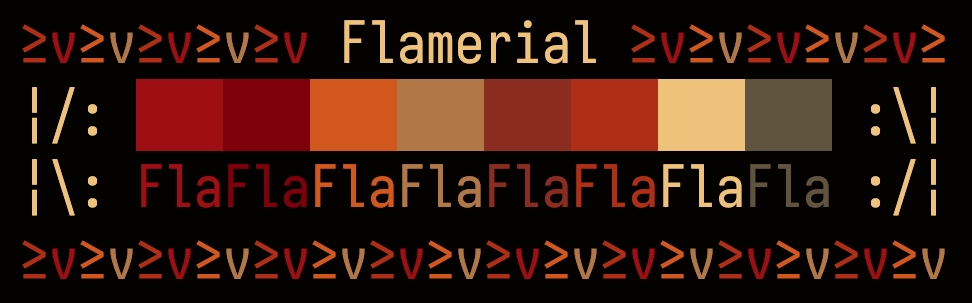
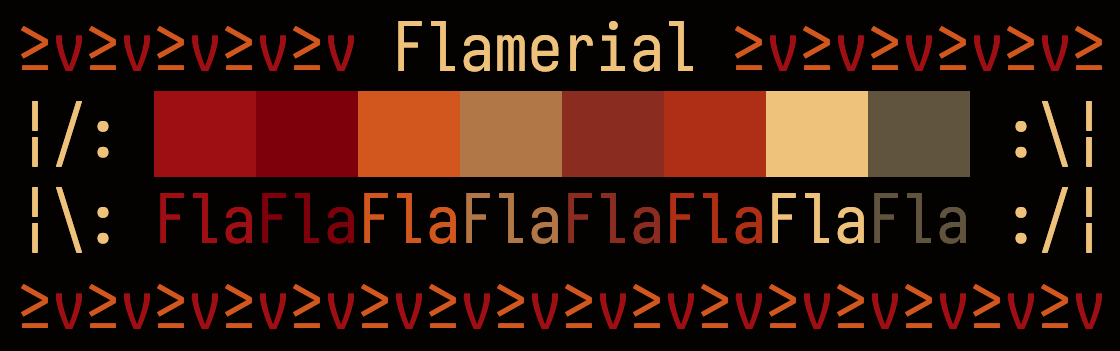
add preview script

diff --git a/scripts/preview.rb b/scripts/preview.rb
@@ -1,0 +1,80 @@
+def to_rgb(hex)
+  {
+    :r => hex >> 16 & 0xff,
+    :g => hex >> 8 & 0xff,
+    :b => hex & 0xff
+  }
+end
+
+def set_clr(clr, lyr)
+  clr = $clrs[clr]
+  print("\e[#{$lyrs[lyr]}8;2;#{clr[:r]};#{clr[:g]};#{clr[:b]}m")
+end
+
+def reset_clrs
+  print("\e[39;49m")
+end
+
+def write_blank
+  2.times {
+    42.times {
+      print(' ')
+    }
+    puts
+  }
+end
+
+def write_tribal_decor(len)
+  for col in 1..len
+    is_even = col % 2 == 0
+    set_clr(is_even ? :red : :yellow, :fg)
+    print(is_even ? 'v' : '≥')
+  end
+end
+
+def write_pal(lyr)
+  for clr, _ in $clrs
+    next if clr == :black
+    set_clr(clr, lyr)
+    print(lyr == :fg ? 'Fla' : '   ')
+  end
+end
+
+$clrs = {
+  :black => to_rgb(0x030101),
+  :red => to_rgb(0x991f06),
+  :green => to_rgb(0x7d0800),
+  :yellow => to_rgb(0xc76800),
+  :blue => to_rgb(0xb08548),
+  :magenta => to_rgb(0x8a3820),
+  :cyan => to_rgb(0xa83e00),
+  :white => to_rgb(0xe8cc7d),
+  :grey => to_rgb(0x695f44)
+}
+$lyrs = {
+  :fg => 3,
+  :bg => 4
+}
+
+set_clr(:black, :bg)
+write_blank
+print('     ')
+write_tribal_decor(10)
+set_clr(:white, :fg)
+print(' Flamerial ')
+write_tribal_decor(11)
+set_clr(:white, :fg)
+puts('     ')
+print('     ¦/: ')
+write_pal(:bg)
+set_clr(:black, :bg)
+puts(' :\\¦     ')
+print('     ¦\\: ')
+write_pal(:fg)
+set_clr(:white, :fg)
+puts(' :/¦     ')
+print('     ')
+write_tribal_decor(32)
+puts('     ')
+write_blank
+reset_clrs
